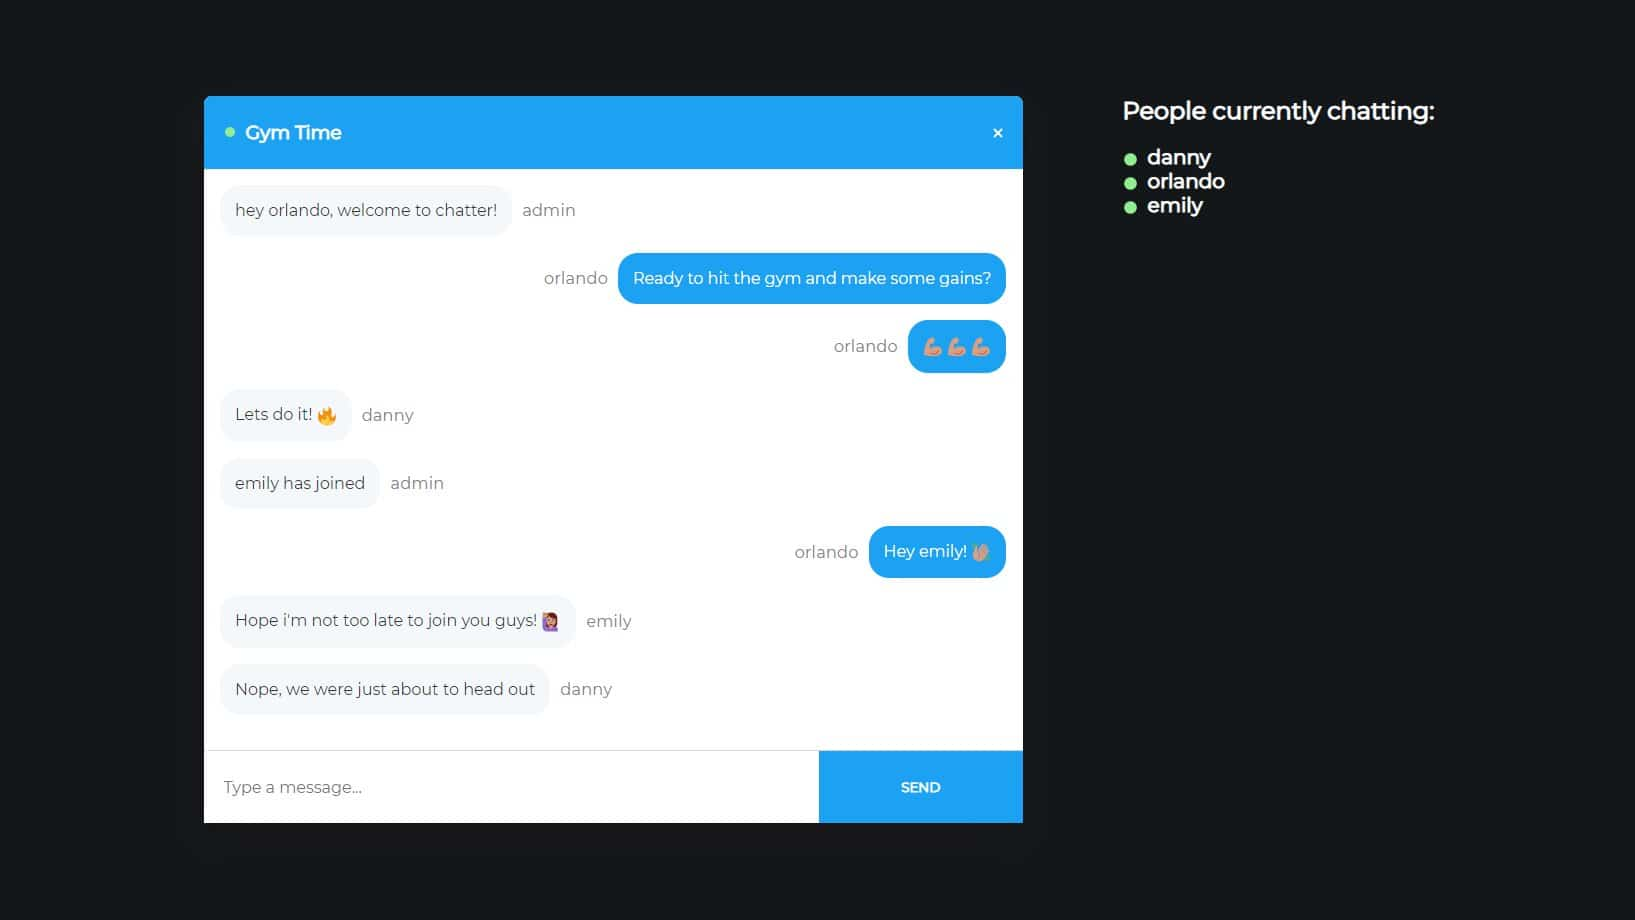
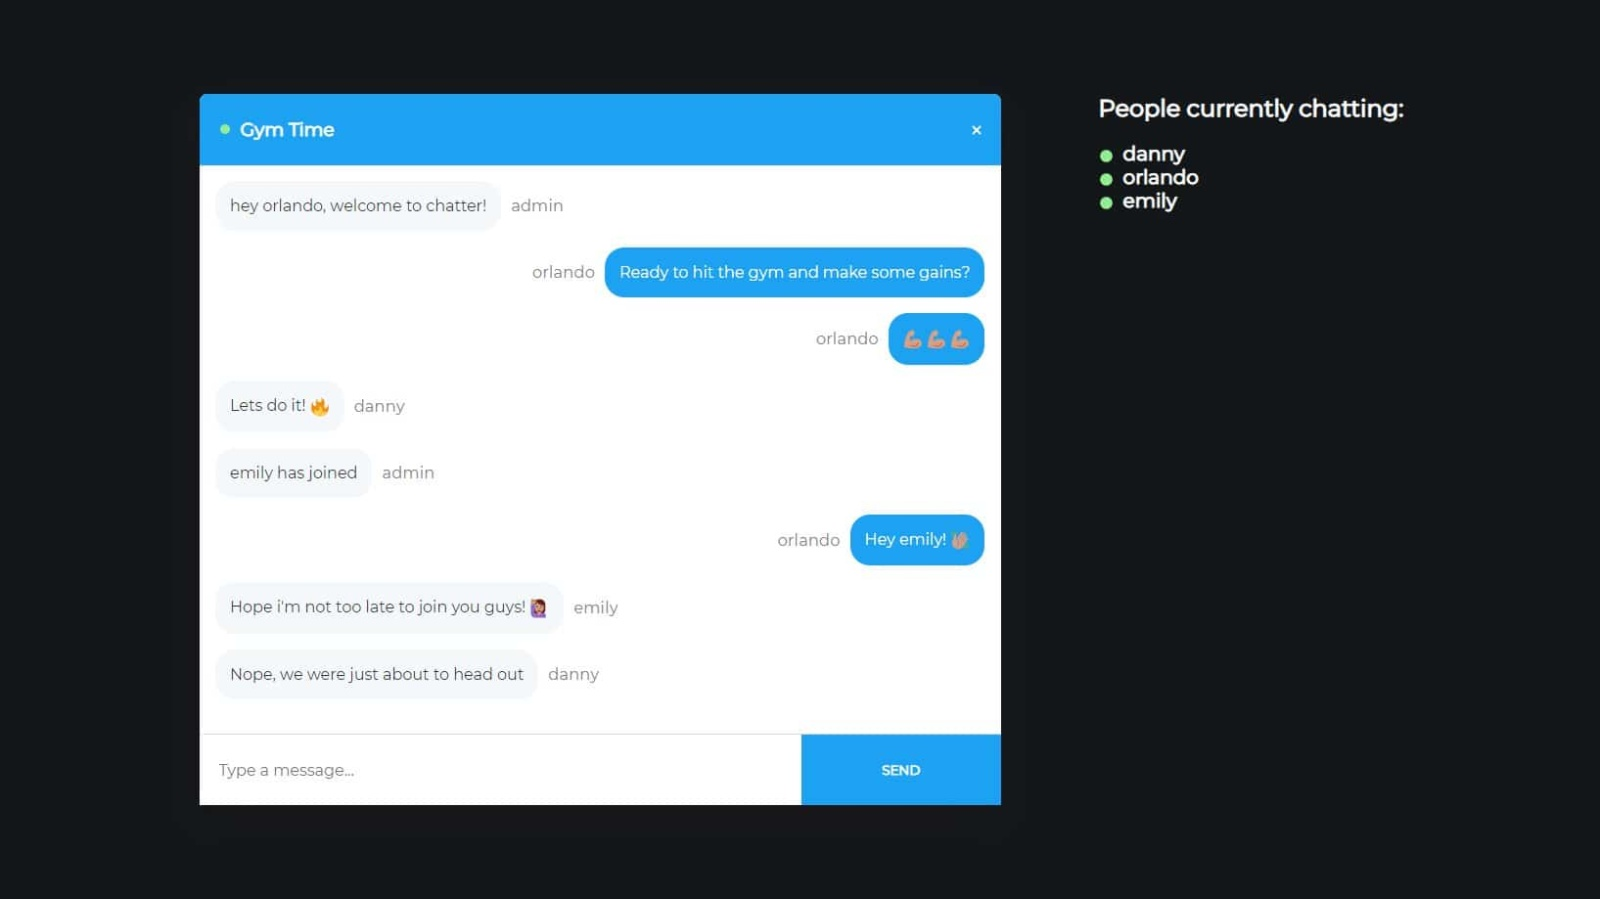
Darken background colors

diff --git a/src/assets/styles/1-helpers/_variables.scss b/src/assets/styles/1-helpers/_variables.scss
@@ -8,8 +8,8 @@ $font-secondary: "Fira Code", monospace;
 // Colors
 $color-primary: rgba(239, 241, 245, 1);
 $color-secondary: rgba(191, 97, 106, 1);
-$color-tertiary: rgba(52, 61, 70, 1);
-$color-background: rgba(37, 41, 52, 1);
+$color-tertiary: rgba(37, 45, 56, 1);
+$color-background: rgba(24, 28, 39, 1);
 
 // Breakpoints
 $breakpoint-desktop: 1200px;
